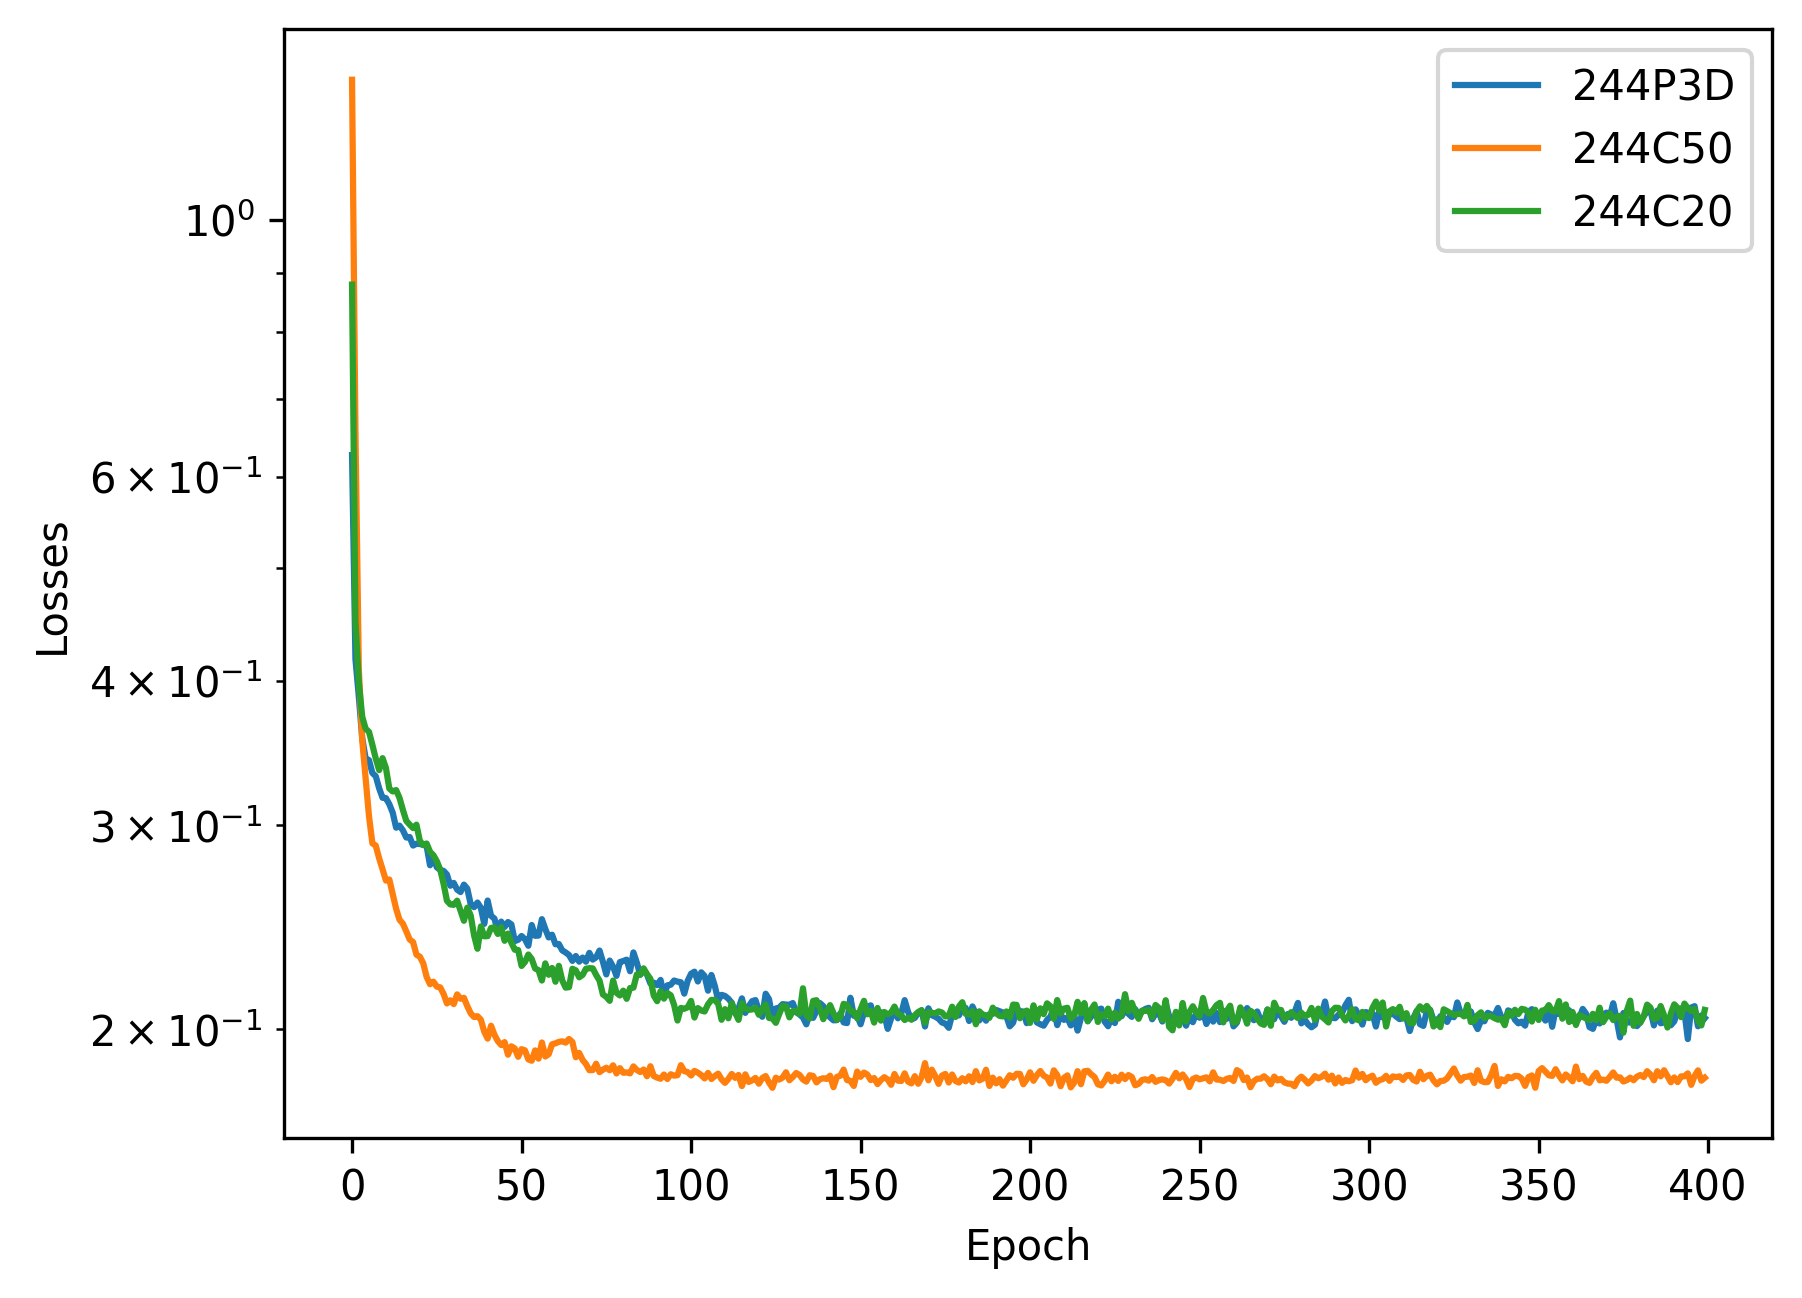
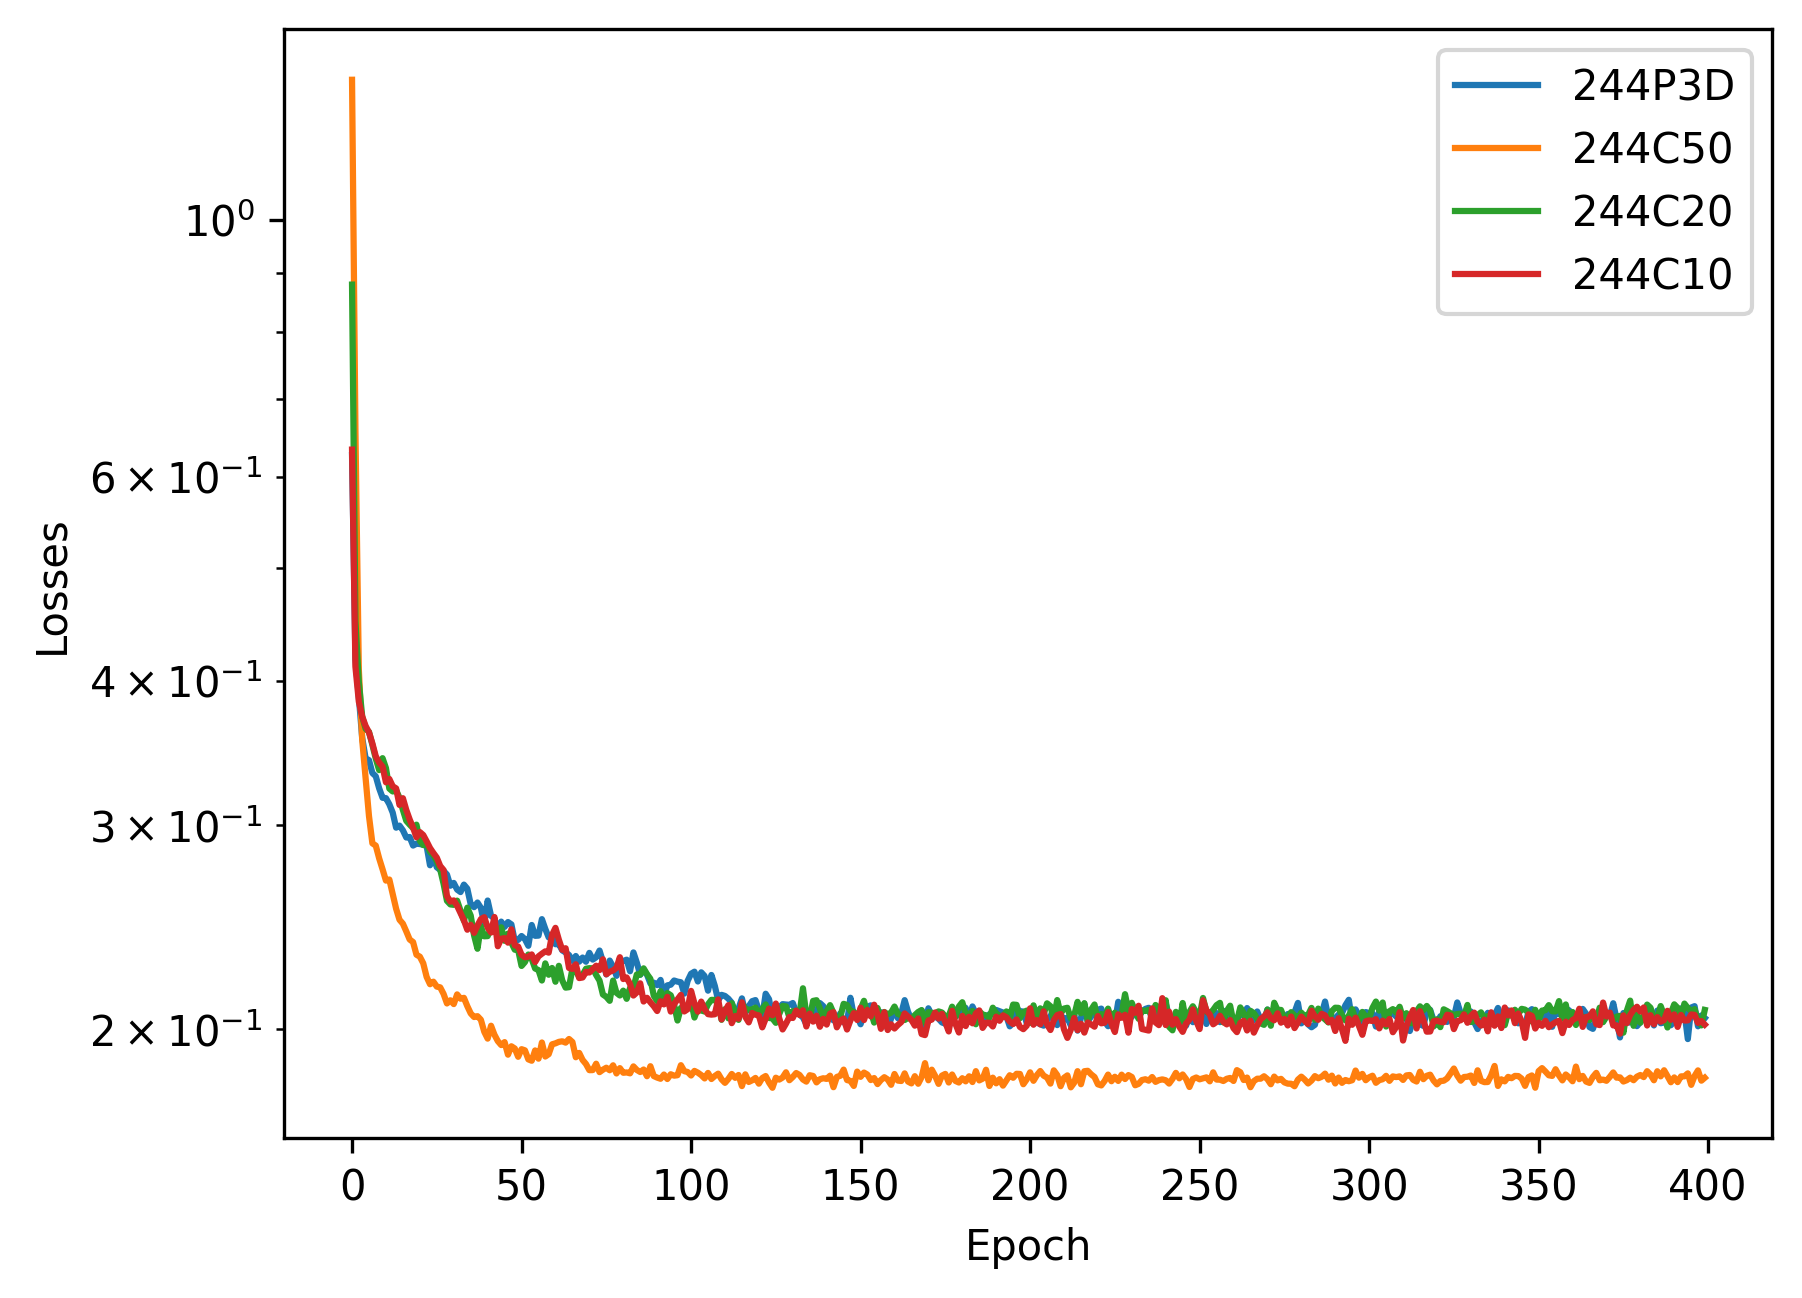
added C10 to compare.py

diff --git a/trainings/compare.py b/trainings/compare.py
@@ -26,6 +26,6 @@ def compare_training_loss(UIDs):
     fig.savefig('plots/compare_training_loss', bbox_inches='tight',  dpi=300)
 
 
-UIDs = ['244P3D', '244C50', '244C20']
+UIDs = ['244P3D', '244C50', '244C20', '244C10']
 
 compare_training_loss(UIDs)
